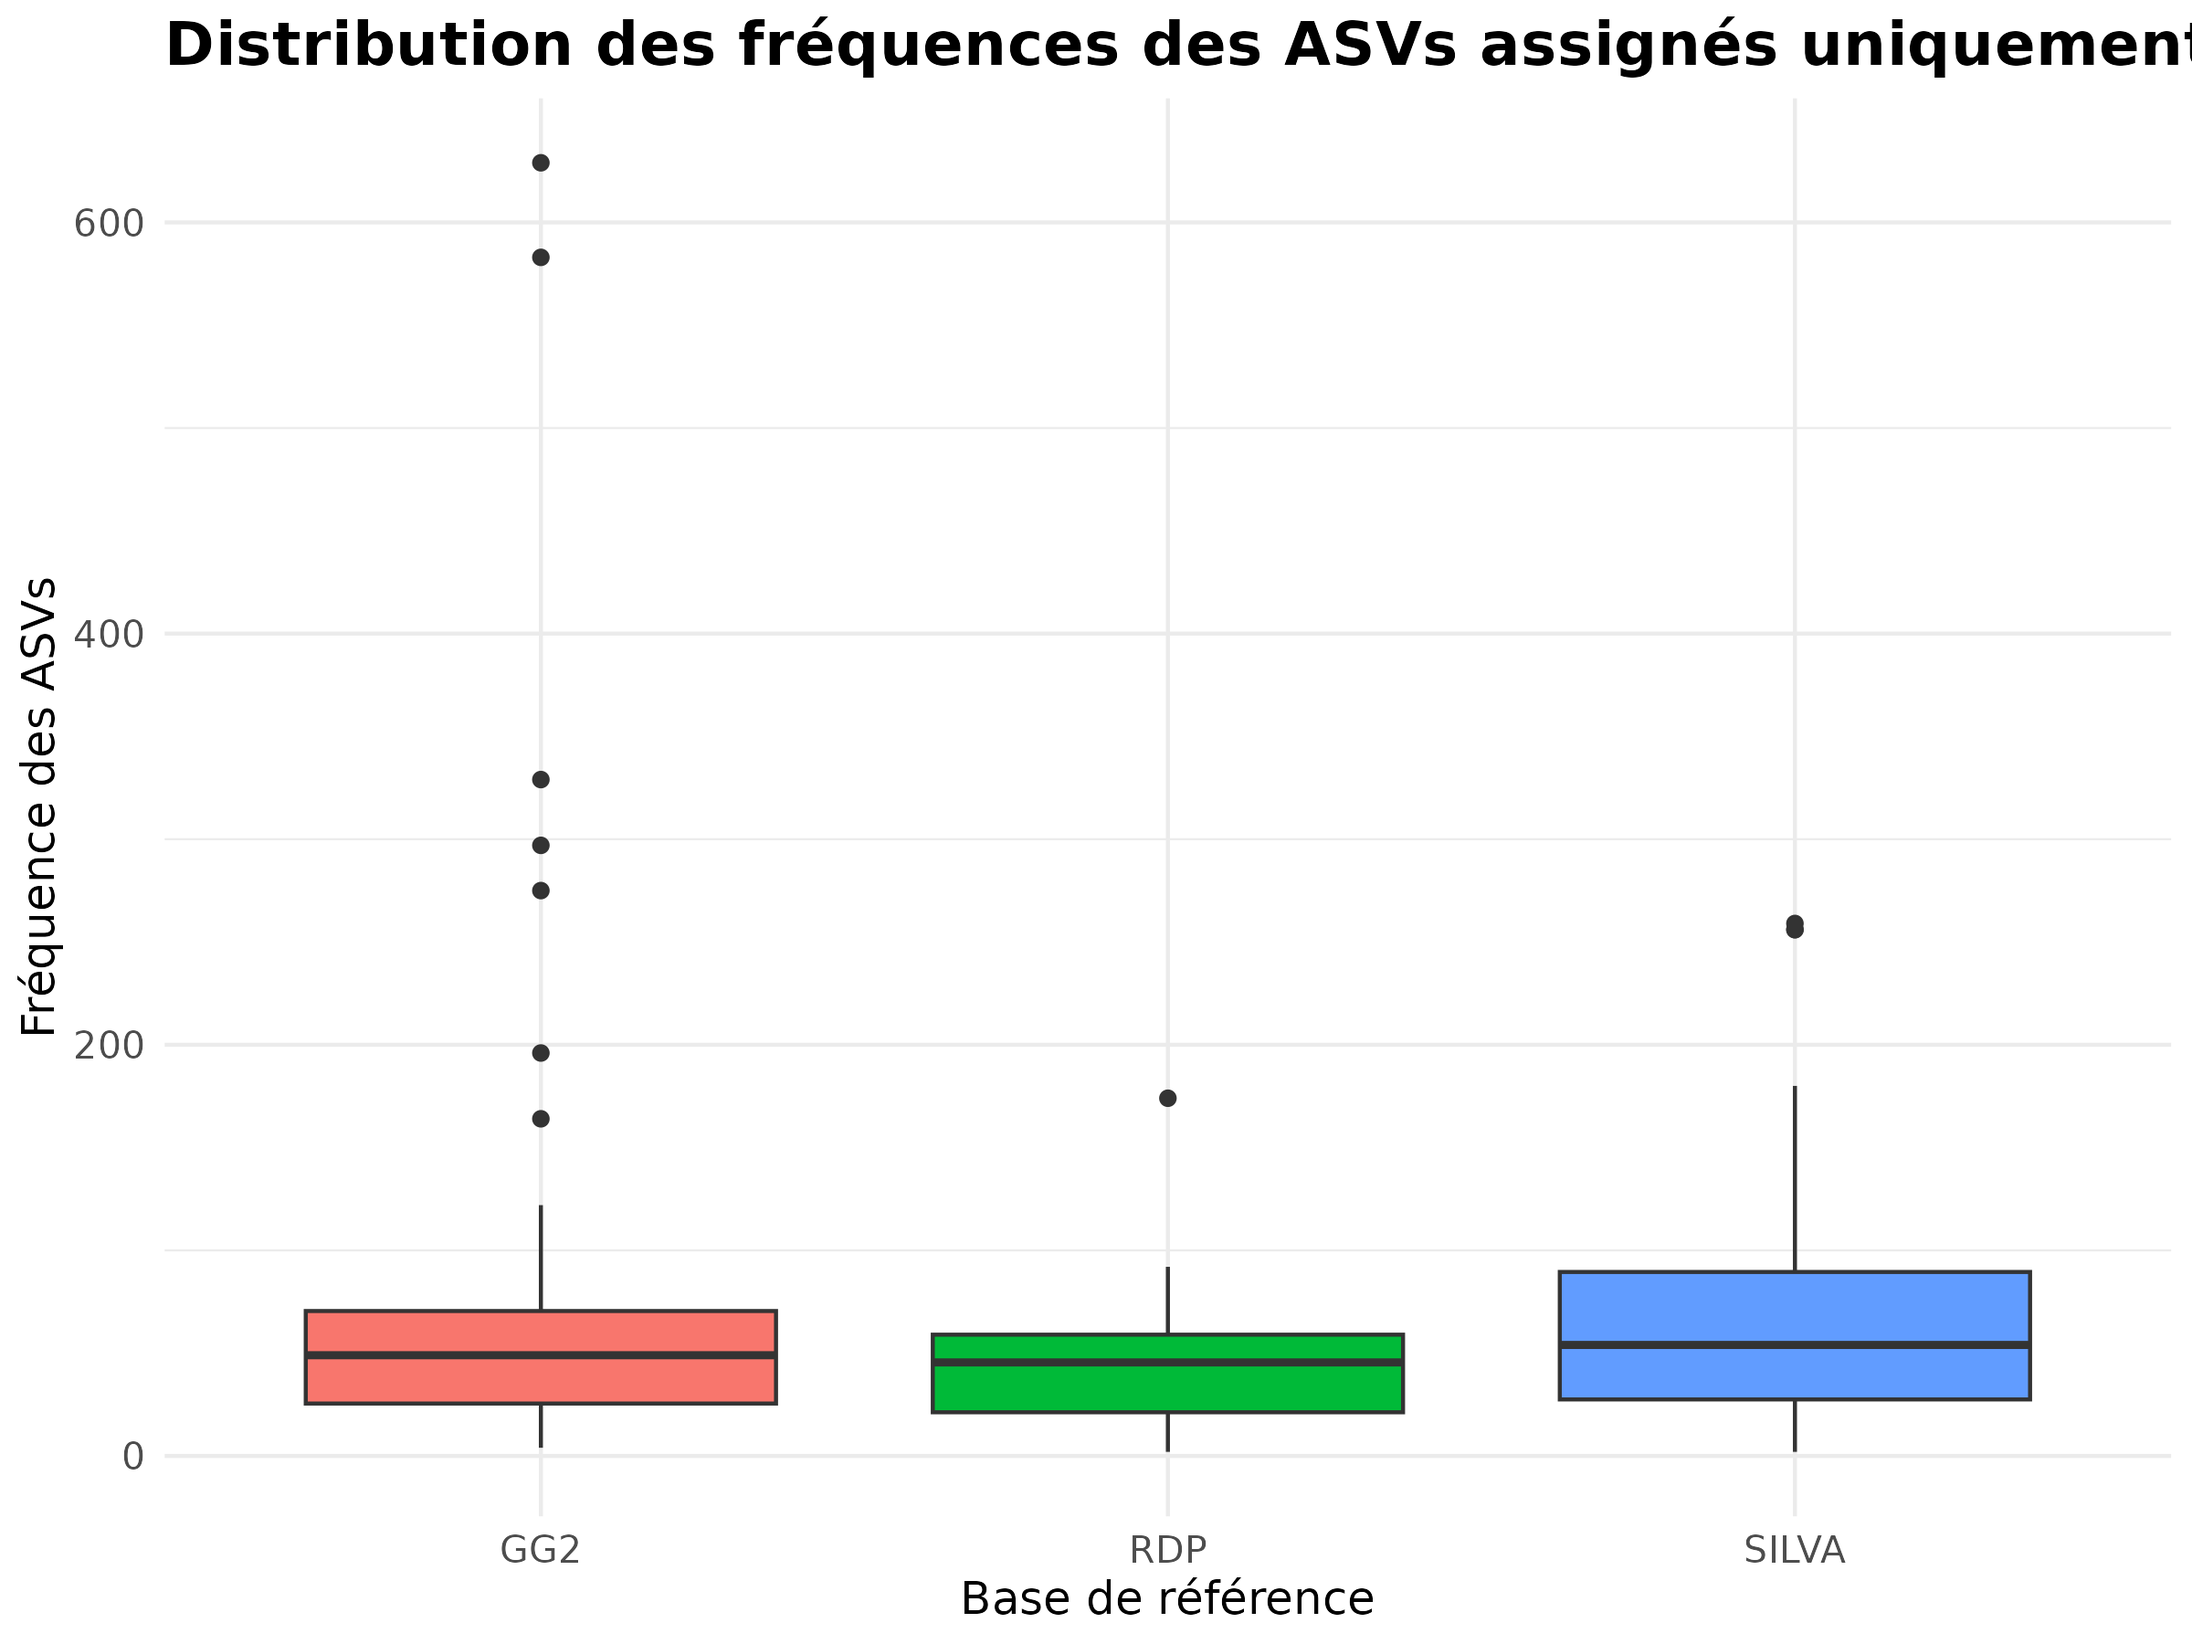
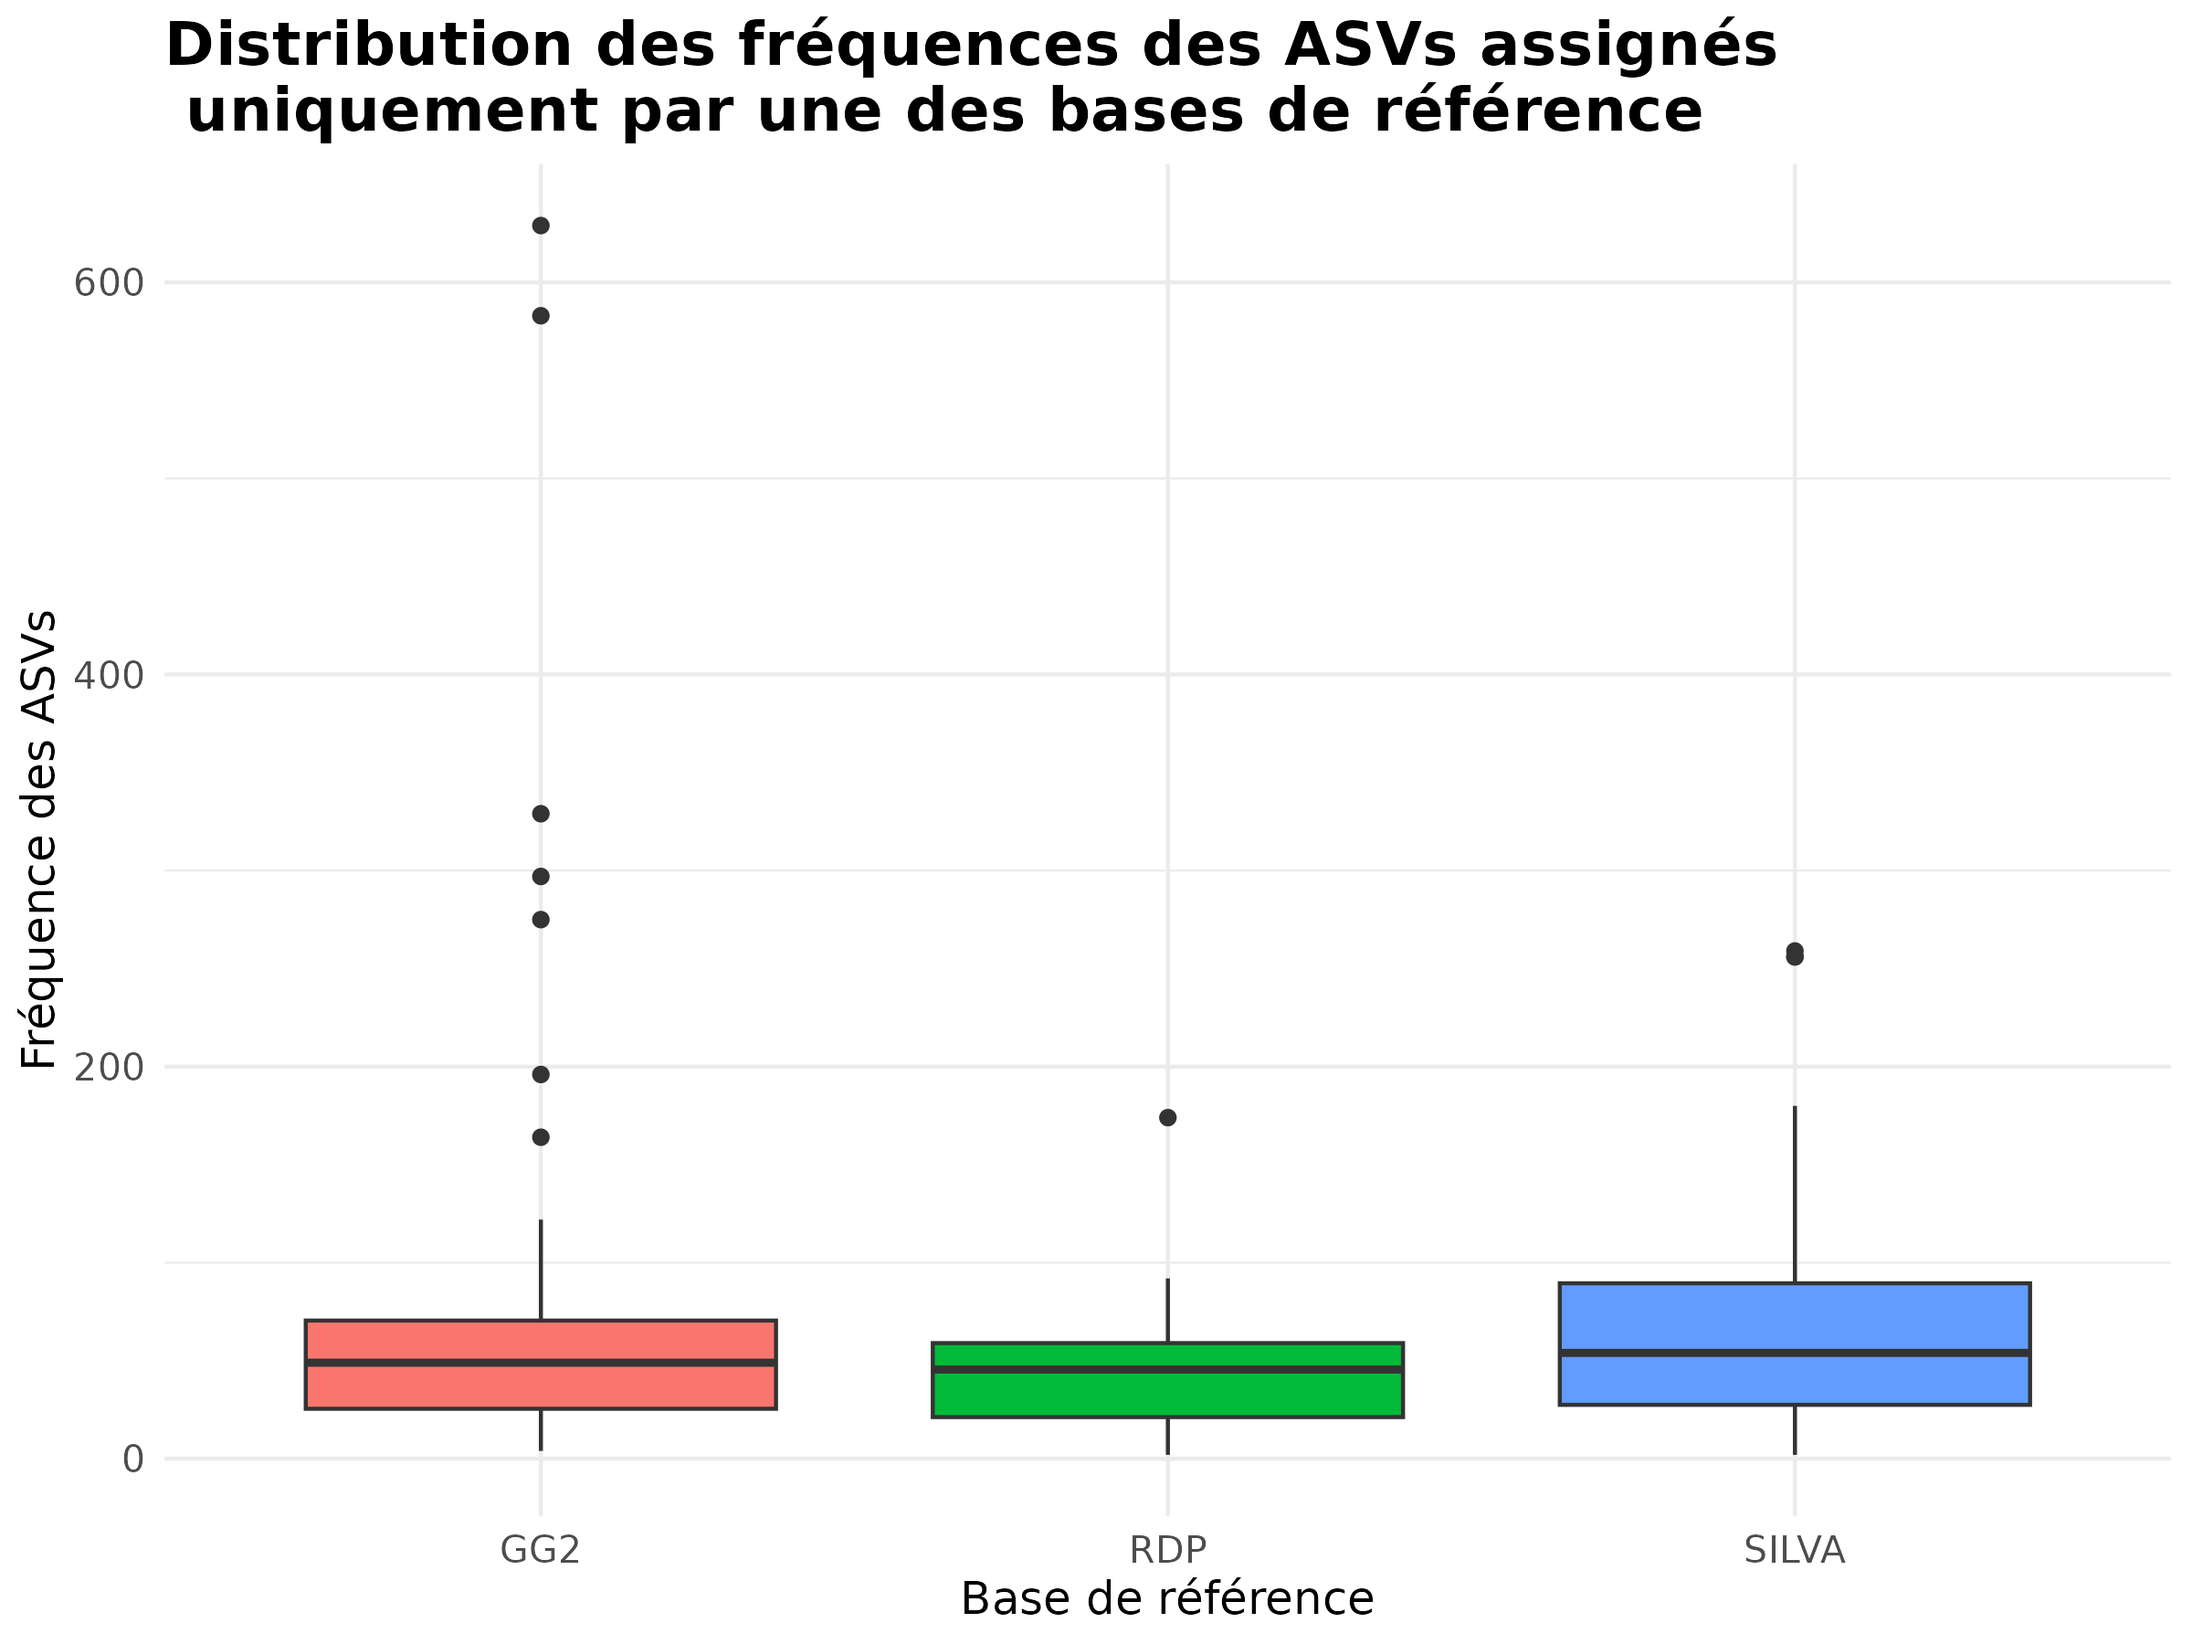
Update images & README

diff --git a/README.md b/README.md
@@ -76,8 +76,15 @@ Nous avons donc choisi par la suite de nous concentrer sur les genres etant donn
 
 #### 2.2 Concordance de l'ensemble des assignations de genre : Diagramme de Venn 
 
-Evaluation de la consistence des assignations faites au niveau du genre selon les différentes bases de données pour chacune des températures.
-Les genres attribué a chaque ASV par chacune des bases de données sont comparé pour mesurer les accords et désaccord des attributions taxonomiques. Le résultat de ces comparaisons est représenté sous la forme d'un diagramme de Venn pour chacune des températures. Cette analyse repose sur le fait que les attrbutions taxonomiques utilise la même typologie entre les bases de données. La bases de référence GreeGenes pouvant présenter une typologie différente (ajout d'un suffixe à la fin du genre) cette différence peut amplifier la différence d'assignation de cette base taxonomique aux deux autres.
+Evaluation de la consistence des assignations faites au niveau du genre selon les différentes bases de données pour chacune des températures. Cette section requiert l'installation du package VennDiagram depuis CRAN.
+
+Les bases de référence n'offrent pas une assignation pour tous les ASVs, mais l’assignation ou non d’une ASV à un taxon dépend de chaque base. Une forte occurence, dans notre échantillon, d'ASVs qui ne seraient assignés que par une base particulière pourrait privilégier l’utilisation de cette base pour l’étude du microbiome de l’échantillon. Nous énumérons donc les ASVs uniquement assignés par l'une des trois bases et mesurons leurs abondances relatives dans nos échantillons. Pour les trois températures, contrairement aux autres bases de référence, Greengenes semble permettre l’assignation d’ASVs dont la fréquence est relativement élevée, suggérant que cette base est plus apte à attribuer des ASVs bien représentés dans notre échantillon.
+
+![](img/ASVunique_15.png)
+
+Les genres attribué a chaque ASV par chacune des bases de données sont comparé pour mesurer les accords et désaccord des attributions taxonomiques. Le résultat de ces comparaisons est représenté sous la forme d'un diagramme de Venn pour chacune des températures. Cette analyse repose sur le fait que les attributions taxonomiques utilise la même typologie entre les bases de données. La bases de référence GreeGenes pouvant présenter une typologie différente (ajout d'un suffixe à la fin du genre) cette différence amplifie la différence d'assignation de cette base taxonomique par rapport aux deux autres. Les bases RDP et SILVA présentent quant à elles des assignations identiques au niveau du genre pour environ 2/3 des ASV assignés, pour chacune des températures.
+
+![](img/venn_diagram_15.png)
 
 Pour plus de détails, voir : [5.Concordance_assignation.ipynb](5.Concordance_assignation.ipynb)
 
